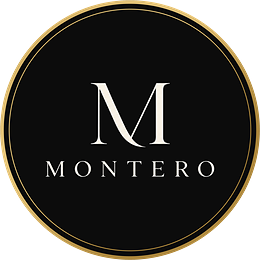
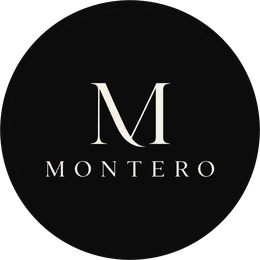
Первый экран без снимка; со знака снято золотое кольцо

diff --git a/index.html b/index.html
@@ -8,7 +8,7 @@
 <link rel="preconnect" href="https://fonts.googleapis.com">
 <link rel="preconnect" href="https://fonts.gstatic.com" crossorigin>
 <link rel="stylesheet" href="https://fonts.googleapis.com/css2?family=Libertinus+Serif:ital,wght@0,400;0,600;0,700;1,400&family=Cormorant+Garamond:ital,wght@0,300;0,400;0,500;0,600;1,300;1,400&family=Cinzel:wght@400;500;600&family=Barlow:wght@300;400;500;600&family=Commissioner:wght@300;400;500;600&display=swap">
-<link rel="stylesheet" href="assets/css/style.css?v=5763d97d">
+<link rel="stylesheet" href="assets/css/style.css?v=efb43170">
 </head>
 <body>
 
@@ -18,8 +18,8 @@
 <header class="nav" id="nav">
   <div class="nav-in">
     <a class="brand" href="#home" data-scroll aria-label="На главную" data-i18n-aria="aria.home">
-      <img class="brand-mark" src="assets/img/mark-128.png?v=07d1e6bd"
-           srcset="assets/img/mark-88.png?v=df400c69 88w, assets/img/mark-108.png?v=3d78d683 108w, assets/img/mark-128.png?v=07d1e6bd 128w, assets/img/mark-160.png?v=3d6f6c56 160w, assets/img/mark-200.png?v=d85454da 200w, assets/img/mark-260.png?v=947c87f9 260w, assets/img/mark-360.png?v=cc5b22df 360w"
+      <img class="brand-mark" src="assets/img/mark-128.png?v=917bc0fc"
+           srcset="assets/img/mark-88.png?v=739af629 88w, assets/img/mark-108.png?v=0bb8111d 108w, assets/img/mark-128.png?v=917bc0fc 128w, assets/img/mark-160.png?v=f9b4a217 160w, assets/img/mark-200.png?v=ae12b83c 200w, assets/img/mark-260.png?v=4693b511 260w, assets/img/mark-360.png?v=1f16783f 360w"
            sizes="(max-width:540px) 48px, 54px"
            alt="Montero Private Concierge" width="512" height="512" decoding="async">
     </a>
@@ -63,13 +63,14 @@
 <!-- ════════ I · HERO ════════ -->
 <section class="hero" id="home">
   <div class="hero-bg" data-parallax="0.14">
+    <!-- Первый экран стоит на собственном цвете: чёрный с красным
+         смещением, золотое сияние сверху, алый отсвет справа внизу —
+         всё это заложено в фон .hero-bg. Снимок снят по просьбе
+         владельца. Чтобы вернуть его, раскройте блок ниже.
     <picture>
-      <!-- Телефону отдаём снимок в родном размере: там он показан
-           полосой почти один к одному, и растянутая версия только
-           крошила бы пиксели. -->
       <source media="(max-width:720px)" srcset="assets/img/hero-m.jpg?v=cdcdb51e">
       <img class="media" src="assets/img/hero.jpg?v=2ba8894e" alt="" fetchpriority="high">
-    </picture>
+    </picture> -->
     <!-- Видеофон ложится поверх снимка сам, когда сможет играть.
          Раскройте блок, когда вернём ролик.
     <video class="media vid" autoplay muted loop playsinline preload="auto"
@@ -650,8 +651,8 @@
         <p data-i18n="conc.p3">Конфиденциально. Персонально. Без лишних звонков, переписок и потери времени.</p>
         <p class="conc-start" data-i18n-html="conc.p4"><b>Всё начинается с одного сообщения.</b><br>Расскажите, что вам нужно. Даже если вы пока не знаете, кто именно может решить ваш вопрос, — это уже наша задача.</p>
         <div class="conc-sig">
-          <img class="seal-lg" src="assets/img/seal-160.png?v=4de9834d"
-           srcset="assets/img/seal-88.png?v=8430b0af 88w, assets/img/seal-120.png?v=4110e5df 120w, assets/img/seal-160.png?v=4de9834d 160w, assets/img/seal-200.png?v=d7c5589e 200w, assets/img/seal-260.png?v=d552781d 260w, assets/img/seal-360.png?v=573eb4ec 360w, assets/img/seal-512.png?v=6c7203e1 512w"
+          <img class="seal-lg" src="assets/img/seal-160.png?v=1167650a"
+           srcset="assets/img/seal-88.png?v=bcbe78b2 88w, assets/img/seal-120.png?v=2f0aab04 120w, assets/img/seal-160.png?v=1167650a 160w, assets/img/seal-200.png?v=ed88a4c5 200w, assets/img/seal-260.png?v=b1dbc948 260w, assets/img/seal-360.png?v=ea6c1cb3 360w, assets/img/seal-512.png?v=6f2fe600 512w"
            sizes="84px"
            alt="" width="512" height="512" decoding="async">
           <span class="conc-sig-t"><b data-i18n-html="conc.signName"><span class="sl">№1 консьерж-сервис от Северной</span> <span class="sl">до Южной Америки</span></b></span>
@@ -734,8 +735,8 @@
 <footer class="foot">
   <div class="shell foot-in">
     <div class="foot-brand">
-      <img class="seal" src="assets/img/seal-160.png?v=4de9834d"
-           srcset="assets/img/seal-88.png?v=8430b0af 88w, assets/img/seal-120.png?v=4110e5df 120w, assets/img/seal-160.png?v=4de9834d 160w, assets/img/seal-200.png?v=d7c5589e 200w, assets/img/seal-260.png?v=d552781d 260w, assets/img/seal-360.png?v=573eb4ec 360w, assets/img/seal-512.png?v=6c7203e1 512w"
+      <img class="seal" src="assets/img/seal-160.png?v=1167650a"
+           srcset="assets/img/seal-88.png?v=bcbe78b2 88w, assets/img/seal-120.png?v=2f0aab04 120w, assets/img/seal-160.png?v=1167650a 160w, assets/img/seal-200.png?v=ed88a4c5 200w, assets/img/seal-260.png?v=b1dbc948 260w, assets/img/seal-360.png?v=ea6c1cb3 360w, assets/img/seal-512.png?v=6f2fe600 512w"
            sizes="44px"
            alt="" width="512" height="512" decoding="async">
       <span data-i18n-html="foot.brand">Время <em>—</em> высшая форма роскоши, о которой мы позаботимся</span>
@@ -752,8 +753,8 @@
 <!-- ════════ ВЫБОР ЯЗЫКА ════════ -->
 <div class="lang-gate" id="langGate" role="dialog" aria-modal="true" aria-labelledby="langTitle" hidden>
   <div class="lang-in">
-    <img class="lang-seal" src="assets/img/seal-160.png?v=4de9834d"
-           srcset="assets/img/seal-88.png?v=8430b0af 88w, assets/img/seal-120.png?v=4110e5df 120w, assets/img/seal-160.png?v=4de9834d 160w, assets/img/seal-200.png?v=d7c5589e 200w, assets/img/seal-260.png?v=d552781d 260w, assets/img/seal-360.png?v=573eb4ec 360w, assets/img/seal-512.png?v=6c7203e1 512w"
+    <img class="lang-seal" src="assets/img/seal-160.png?v=1167650a"
+           srcset="assets/img/seal-88.png?v=bcbe78b2 88w, assets/img/seal-120.png?v=2f0aab04 120w, assets/img/seal-160.png?v=1167650a 160w, assets/img/seal-200.png?v=ed88a4c5 200w, assets/img/seal-260.png?v=b1dbc948 260w, assets/img/seal-360.png?v=ea6c1cb3 360w, assets/img/seal-512.png?v=6f2fe600 512w"
            sizes="62px"
            alt="" width="512" height="512" decoding="async">
     <h2 id="langTitle" data-i18n="lang.title">Выберите язык</h2>

diff --git a/assets/css/style.css b/assets/css/style.css
@@ -263,12 +263,11 @@ h4{ font-size:clamp(19px,2vw,24px); letter-spacing:0; }
 
 .brand{ display:flex; align-items:center; gap:13px; min-width:0; }
 /* Знак — растровый, поэтому размер задаём по ширине, высоту оставляем
-   пропорции. Лёгкое золотое свечение отделяет тёмную эмаль знака от
-   такого же тёмного фона страницы.                                   */
+   пропорции. Золотое свечение снято вместе с кольцом: вокруг чёрного
+   диска оно читалось тем же ободом, только размытым.                 */
 .brand-mark,.seal,.seal-lg,.lang-seal{
   display:block; flex:none; height:auto;
-  filter:drop-shadow(0 2px 6px rgba(0,0,0,.5))
-         drop-shadow(0 0 14px rgba(214,160,74,.16));
+  filter:drop-shadow(0 2px 6px rgba(0,0,0,.5));
 }
 /* В шапке знак стоит один, без надписи рядом: имя набрано
    внутри круга, и дублировать его словом было бы лишним. */
@@ -540,10 +539,6 @@ h4{ font-size:clamp(19px,2vw,24px); letter-spacing:0; }
      показывается один к одному. Шпиль в файле лежит на 0.498 ширины,
      поэтому выравнивание по центру ставит башню строго посередине
      на любом мониторе: обрезаются поровну левый и правый край.      */
-  /* Блок «MONTERO … Связаться с нами» поднят выше середины экрана.
-     Двигается только он, снимок остаётся на месте.                */
-  .hero-in{ transform:translateY(calc(-1 * clamp(60px, 8vh, 110px))); }
-
   .hero-bg .media{
     filter:brightness(.35);
     animation:none;
@@ -1488,19 +1483,6 @@ h4{ font-size:clamp(19px,2vw,24px); letter-spacing:0; }
        ни снятой насыщенности. Текст держится собственной тенью.   */
     filter:none;
   }
-  /* Снимок не трогаем, поэтому читаемость держим на самих буквах:
-     плотный тёмный ореол вплотную к штрихам плюс широкий мягкий
-     подпор. Картинка при этом остаётся в своих цветах.        */
-  .hero-in .lockup{
-    text-shadow:
-      0 0 2px rgba(6,3,4,.95), 0 1px 3px rgba(6,3,4,.9),
-      0 2px 10px rgba(6,3,4,.85), 0 0 30px rgba(6,3,4,.7);
-  }
-  .hero-act .btn{
-    text-shadow:
-      0 0 2px rgba(6,3,4,.95), 0 1px 4px rgba(6,3,4,.9), 0 0 18px rgba(6,3,4,.7);
-  }
-  .hero-rail{ text-shadow:0 1px 4px rgba(6,3,4,.9); }
   .hero-act{ flex-direction:column; align-items:stretch; }
   .btn-lg{ width:100%; padding-inline:18px; letter-spacing:.14em; }
   .hero-rail{ gap:10px 26px; }
@@ -1518,22 +1500,6 @@ h4{ font-size:clamp(19px,2vw,24px); letter-spacing:0; }
 /* На телефоне шапку делят знак, переключатель языка, кнопка заявки и
    бургер. Знак уменьшаем и поджимаем зазоры — так он остаётся целым
    вместо того, чтобы обрезаться флексом. */
-/* Телефон: блок первого экрана поднят так, чтобы нижняя грань кнопки
-   села на вершину самой высокой башни в кадре. Величина считается от
-   высоты экрана — 112px минус 5.8svh: снимок обрезан по ширине, и на
-   низком экране линия горизонта выше, поднимать надо сильнее. Формула
-   снята с замеров на 320, 360, 390, 414 и 430 — они легли на прямую.
-   Планшет и компьютер не затронуты: там кадр другой и привязка к
-   башне смысла не имеет. Сдвиг только визуальный — полоса цифр под
-   ним остаётся на месте.                                          */
-@media (max-width:560px){
-  /* Блок от MONTERO до кнопки поднят так, чтобы нижняя грань кнопки
-     встала над шпилем небоскрёба в кадре. Величина считается от
-     высоты экрана: шпиль в кадре смещается вместе с ней, потому
-     что снимок обрезан по бокам, а по высоте виден целиком.   */
-  .hero-in{ transform:translateY(calc(-1 * clamp(150px, 106px + 7.4svh, 195px))); }
-}
-
 @media (max-width:540px){
   .nav-in{ gap:12px; }
   .brand-mark{ width:48px; }
